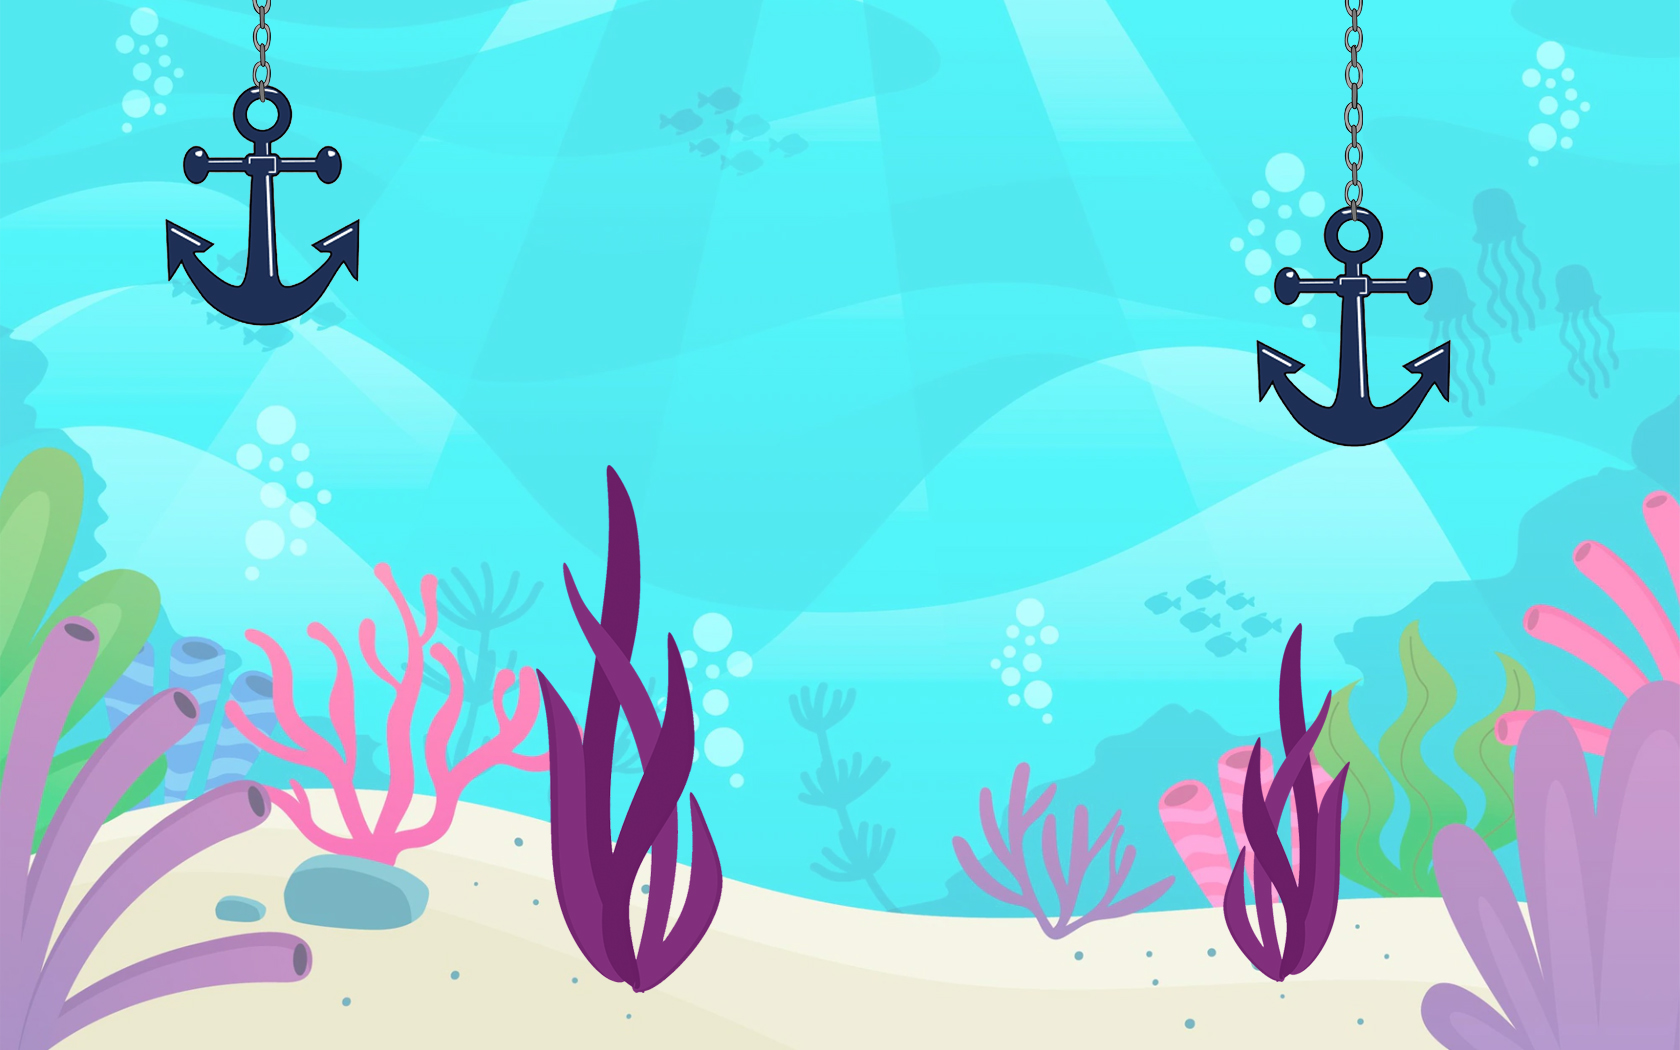
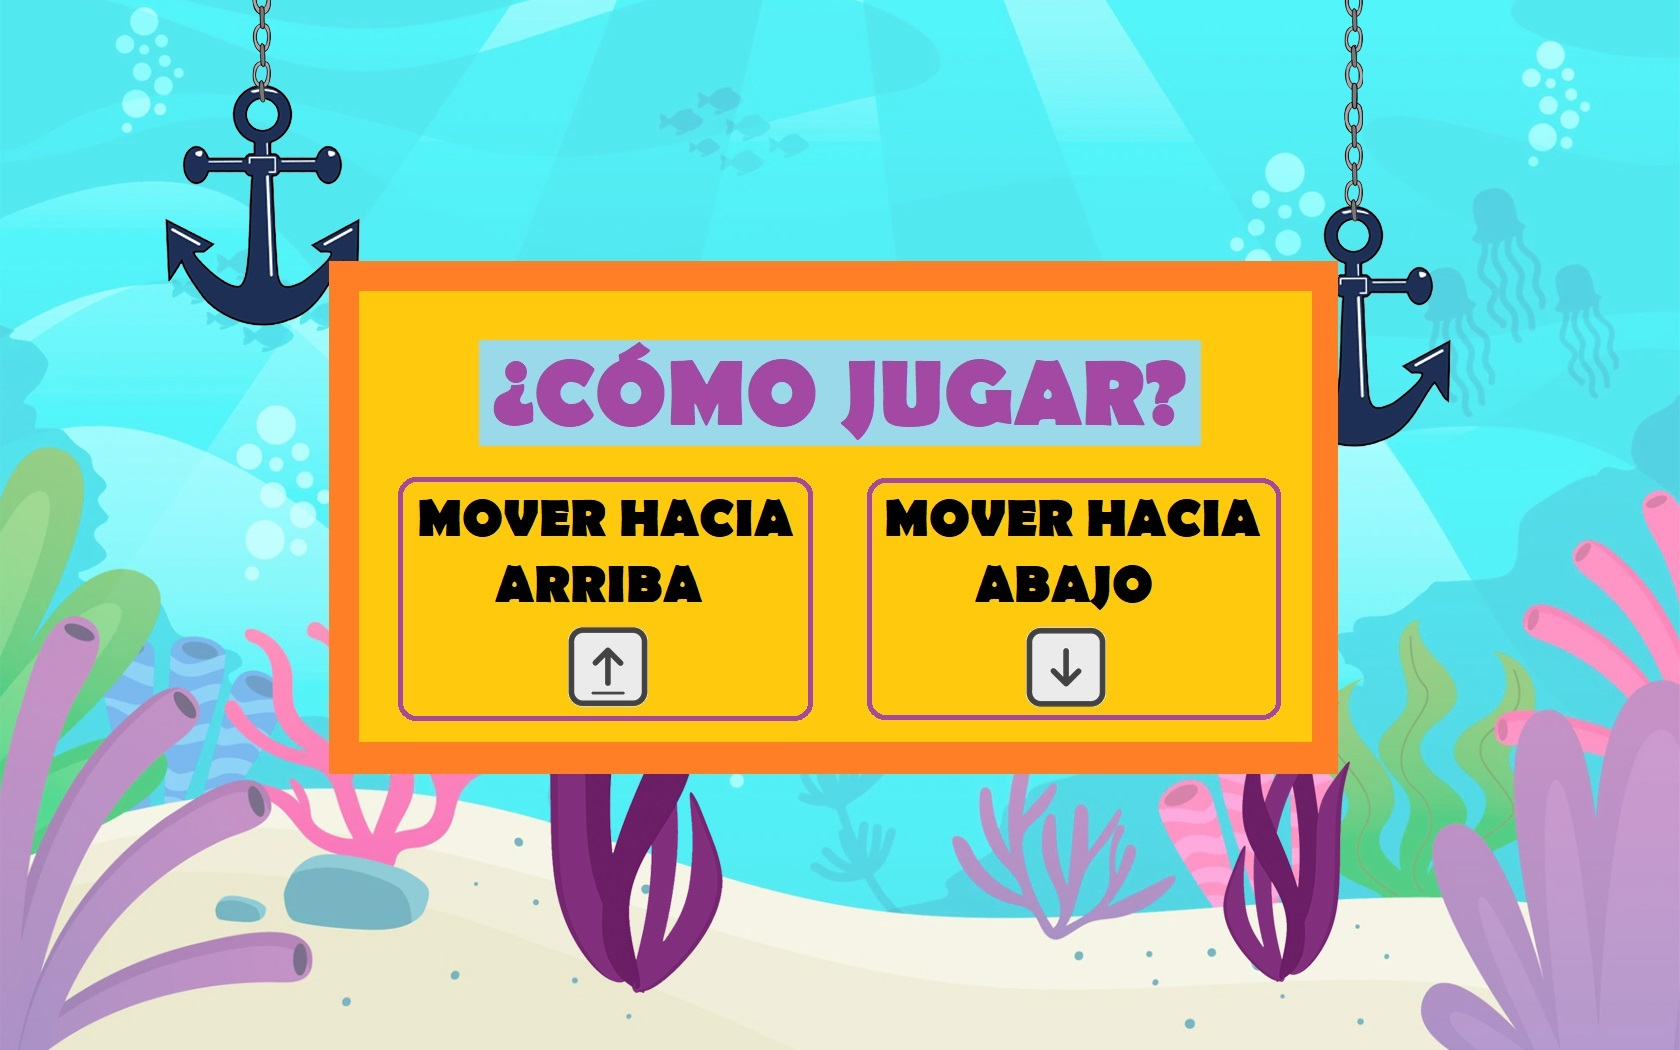
Cambios en el codigo

Changed region(s): [[0.1857, 0.2438, 0.8048, 0.7924]]

diff --git a/mi estilo.css b/mi estilo.css
@@ -1,62 +1,80 @@
-body{
+body
+{
     background-image: url("Imagenes/Fondo con pez.jpg");
     background-repeat: no-repeat;
-    background-size: 100%;
+    background-size: 1100px 680px;
+    background-position: 130px 0.1px;
+    background-color: #51E8EF;
     text-align: center;
     font-family: 'Gugi', cursive;
-
+    text-anchor: start;
 }
 #TituloPrincipal
 {
-    color: green
-
-
+    color: #033c65;
+    font-family: 'Chelsea Market', cursive;
+    font-size: 80px;
+    letter-spacing: 7px;
+    position: center;
+    margin: 30px;
 }
-#TituloJugar{color: #48ff00;}
-
-
 #div1
 {
-    padding: 10px 30px;
-    font-family: Algerian;
-    color: #ff0000;
+    margin: 260px;
+    font-family: 'Chelsea Market', cursive;
+    font-size: 30px;
+    color: #11100c;
+    position: -ms-device-fixed;
 }
-#div2{
-    padding: 10px 30px;
-    font-family: Arial ;
-    color: #ff7300;
-}
-#TituloPrincipal
+#div2
 {
-    color: #eeff00;
-    font-family: Arial ;
-    text-align: center;
-}
-#TituloJugar{
-    color: #48ff00
-;
+    font-family: 'Chelsea Market', cursive;
+    color: #ff6500;
+    margin: -230px 0px;
+    font-size: 45px;
 }
 
-#bodyjugar{
+a:visited
+{
+    color: #ff6500;
+}
+
+#div3
+{
+    font-family: 'Chelsea Market', cursive;
+    color: #11100c;
+    margin: 260px 0px;
+    font-size: 30px;
+}
+
+
+#bodyjugar
+{
     background-image: url("Imagenes/2.jpg");
     background-repeat: no-repeat;
-    background-size: 100%;
+    background-size: 1100px 649px;
+    background-position: 130px 0.1px;
+    background-color: #51E8EF;
     text-align: center;
     font-family: 'Gugi', cursive;
 }
-#atras{
+#atras
+{
 
     padding: 10px 30px;
 }
 #bodycomojugar{
-    background-image: url("Imagenes/como jugar.jpg");
+    background-image: url("Imagenes/Fondo juego ro.jpg");
     background-repeat: no-repeat;
-    background-size: 100%;
+    background-size: 1100px 649px;
+    background-position: 130px 0.1px;
+    background-color: #51E8EF;
     text-align: center;
     font-family: 'Gugi', cursive;
 }
 #autores{
     text-align: center;
+    text-align-all: center;
     position: fixed;
     bottom: 0;
 }

diff --git a/index.html b/index.html
@@ -8,8 +8,7 @@
     <meta content="juego,pez"name="palabras-principales">
     <link rel="stylesheet" href="mi%20estilo.css">
     <link rel="shortcut icon"href="Imagenes/pez5.png">
-
-
+    <link href="https://fonts.googleapis.com/css2?family=Chelsea+Market&display=swap" rel="stylesheet">
 
 </head>
 
@@ -26,35 +25,37 @@
     <!-- *************************************************** -->
 
     <p>
-        <div id="div1"> <!-- Nombre -->
-            <label for="nombre">Nombre: </label><p><input type="text" name="nombre" placeholder="Introduzca su nombre" id="nombre"></p>
+    <div id="div1"> <!-- Nombre -->
+        <label for="nombre">NOMBRE :   </label>
+        <input type="text" name="nombre" placeholder="Introduzca su nombre" id="nombre">
 
-        </div>
-    </p>
-
-    <!-- *************************************************** -->
-
-    <p>
-        <div id="div2"> <!-- Jugar -->
-    <nav>
-        <a href="jugar.html">JUGAR</a>
-    </nav>
-        </div>
+    </div>
     </p>
 
     <!-- *************************************************** -->
 
 
     <p>
-        <div id="div3"> <!-- Como Jugar -->
-    <nav>
-        <a href="como%20jugar.html">¿ COMO JUGAR ?</a>
-    </nav>
-        </div>
+    <div id="div2"> <!-- Jugar -->
+        <nav>
+            <a href="jugar.html">*JUGAR*</a>
+        </nav>
+    </div>
     </p>
+
+    <!-- *************************************************** -->
+
+    <div id="div3" >
+        <nav>
+            <a id="div3" href="como%20jugar.html"> ¿CÓMO JUGAR ?</a>
+        </nav>
+    </div>
 
     <footer id="autores">
-        Pecorari Santiago - Vulcano Rocio
+        Pecorari Santiago
+        <p>
+            Vulcano Rocio
+        </p>
     </footer>
 </body>
 </html>

diff --git a/como jugar.html b/como jugar.html
@@ -2,12 +2,12 @@
 <html lang="en">
 <head>
     <meta charset="UTF-8">
-    <title>COMO JUGAR</title>
+    <title>¿CÓMO JUGAR?</title>
     <meta content="Pecorari-Vulcano" name="autor">
     <meta content="web del proyecto" name="descripcion">
     <meta content="juego,pez"name="palabras-principales">
     <link rel="stylesheet" href="mi%20estilo.css">
-    <link rel="shortcut icon"href="Imagenes/pez5.png">
+    <link rel="shortcut icon"href="Imagenes/pez5.png" >
 
 
 

diff --git a/jugar.html b/jugar.html
@@ -2,12 +2,12 @@
 <html lang="en">
 <head>
     <meta charset="UTF-8">
-    <title>JUEGA</title>
+    <title>¡DIVIÉRTETE!</title>
     <meta content="Pecorari-Vulcano" name="autor">
     <meta content="web del proyecto" name="descripcion">
     <meta content="juego,pez"name="palabras-principales">
     <link rel="stylesheet" href="mi%20estilo.css">
-    <link rel="shortcut icon"href="Imagenes/pez5.png">
+    <link rel="shortcut icon"href="Imagenes/pez">
 
 
 
